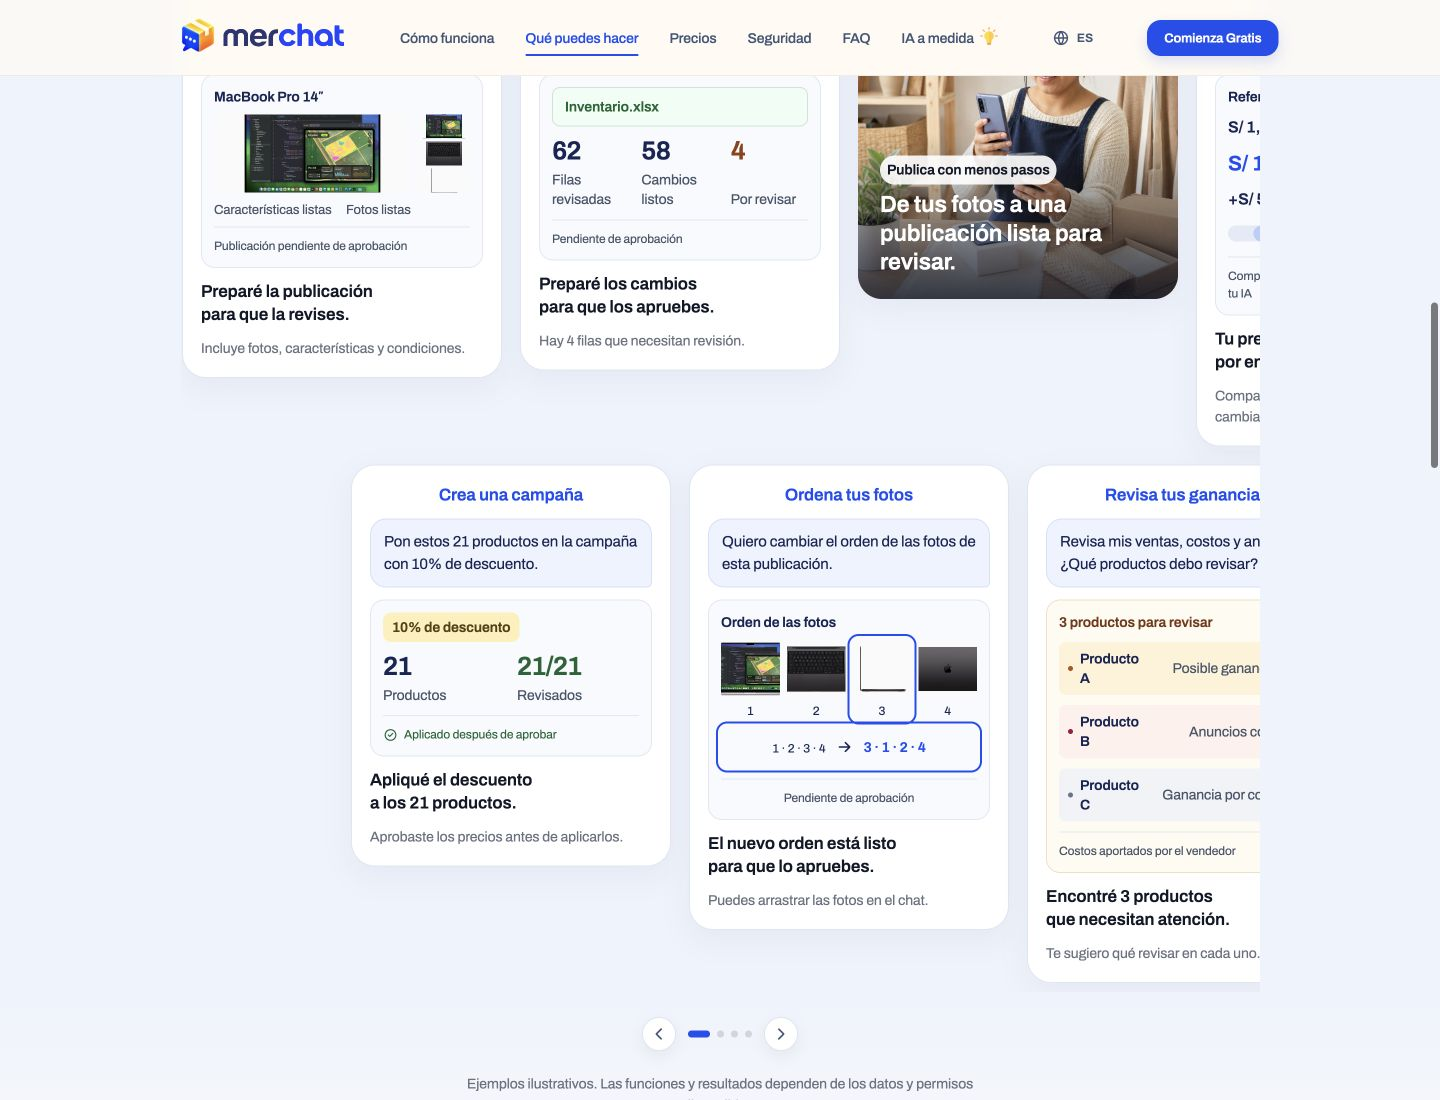
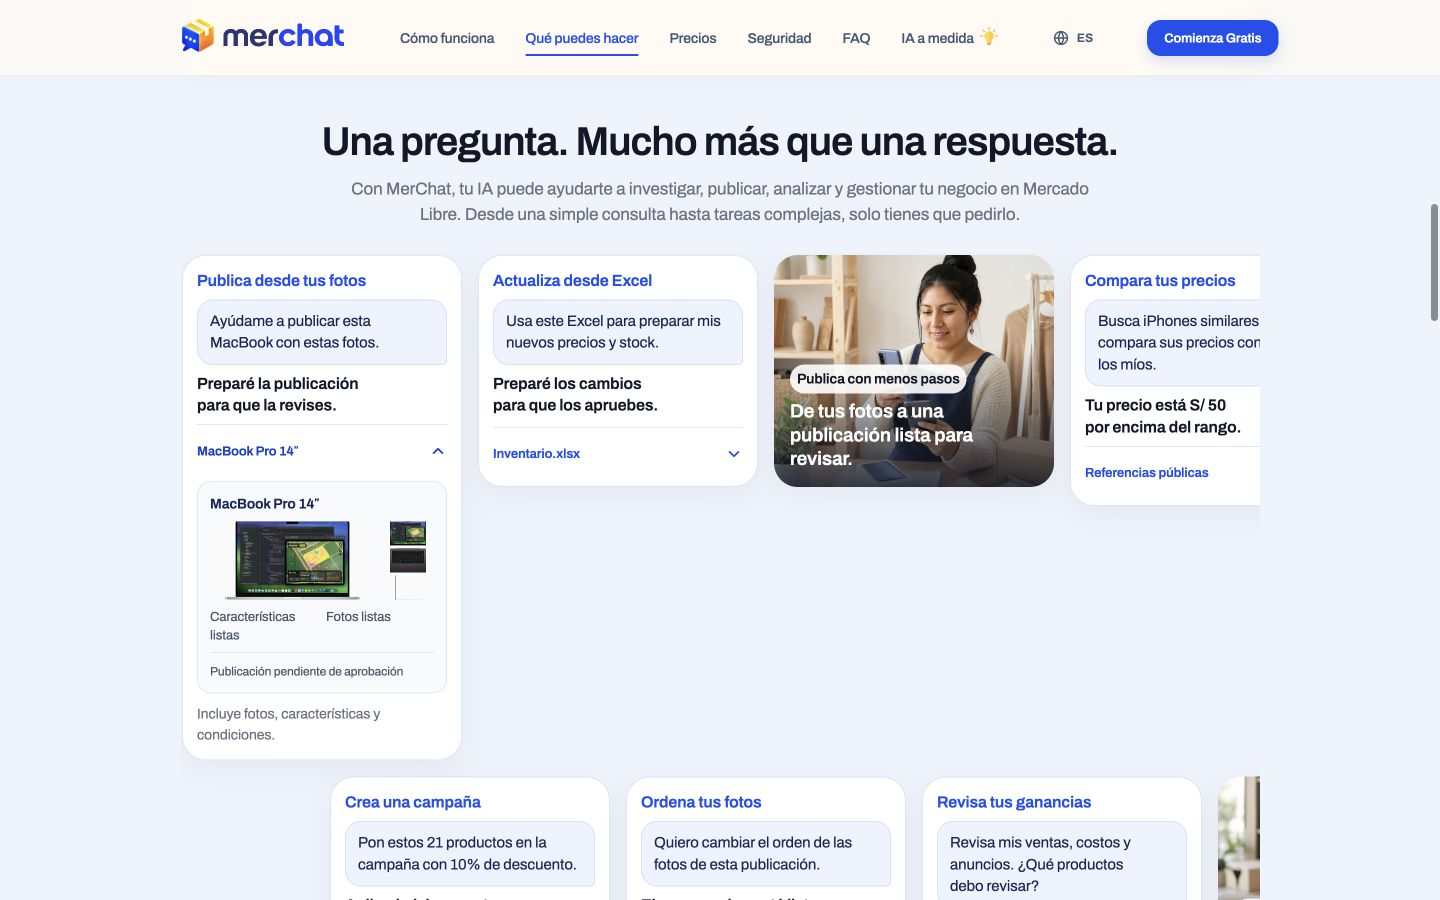
Compact carousel overview without changing copy

diff --git a/app/globals.css b/app/globals.css
@@ -2416,15 +2416,17 @@ body, main { background: var(--bg); }
 .features h3 { min-height: 2.6em; }
 
 /* Capability stories: the request leads, the preview makes the outcome concrete. */
-#resultados .section-title { max-width: 30ch; margin-bottom: 18px; }
-#resultados .showcase-intro { max-width: 64ch; margin: 0 auto 36px; text-align: center; font-size: 17px; line-height: 1.65; color: var(--muted); text-wrap: pretty; }
-#resultados .showcase-disclaimer { max-width: 72ch; margin: 22px auto 0; text-align: center; font-size: 14px; line-height: 1.55; color: var(--muted); }
-#resultados .carousel-set { grid-auto-columns: 320px; grid-template-rows: repeat(2, max-content); padding-right: 169px; }
-#resultados .carousel-set .example-card { width: 320px; min-height: 0; padding: 18px; gap: 12px; }
+main .functions-group section#resultados { padding-block: 24px 32px; scroll-margin-top: 80px; }
+#resultados .section-title { max-width: 38ch; margin-bottom: 12px; }
+#resultados .showcase-intro { max-width: 80ch; margin: 0 auto 24px; text-align: center; font-size: 17px; line-height: 1.5; color: var(--muted); text-wrap: pretty; }
+#resultados .showcase-disclaimer { max-width: 72ch; margin: 12px auto 0; text-align: center; font-size: 14px; line-height: 1.55; color: var(--muted); }
+#resultados .carousel-set { grid-auto-columns: 280px; grid-template-rows: repeat(2, max-content); gap: 16px; padding-right: 148px; }
+#resultados .carousel-set .example-card { width: 280px; min-height: 232px; padding: 14px; gap: 8px; }
+#resultados .carousel-set > .example-card:nth-child(even) { transform: translateX(148px); }
 #resultados .demo-card { align-self: start; }
-#resultados .demo-card > span { padding: 0; font-size: 17px; font-weight: 600; line-height: 1.35; }
-#resultados .example-bubble { padding: 11px 13px; font-size: 15px; line-height: 1.5; }
-#resultados .demo-card > strong { margin-top: 0; font-size: 17px; line-height: 1.35; }
+#resultados .demo-card > span { align-self: flex-start; padding: 0; font-size: 16px; font-weight: 600; line-height: 1.35; }
+#resultados .example-bubble { padding: 10px 12px; font-size: 15px; line-height: 1.45; }
+#resultados .demo-card > strong { margin-top: 0; font-size: 16px; line-height: 1.35; }
 #resultados .demo-card > small { font-size: 14px; line-height: 1.5; color: var(--muted); }
 #resultados .cap-preview { display: flex; flex-direction: column; gap: 10px; padding: 12px; border: 1px solid #E1E7F2; border-radius: 14px; background: #F8FAFE; font-size: 14px; line-height: 1.4; color: #172554; }
 #resultados .cap-label { font-size: 14px; font-weight: 600; }
@@ -2475,9 +2477,10 @@ body, main { background: var(--bg); }
 #resultados .example-photo .photo-overlay strong { font-size: 23px; line-height: 1.25; }
 #resultados .carousel-arrow:focus-visible, #resultados .dots button:focus-visible { outline: 3px solid var(--blue); outline-offset: 5px; }
 @media(max-width:640px) {
-  #resultados .carousel-set { grid-auto-columns: calc(88vw - 32px); padding-right: calc(44vw - 9px); grid-template-rows: repeat(2, max-content); }
-  #resultados .carousel-set .example-card { width: calc(88vw - 32px); padding: 16px; gap: 12px; }
-  #resultados .showcase-intro { font-size: 16px; margin-bottom: 28px; }
+  #resultados .carousel-set { grid-auto-columns: calc(88vw - 32px); padding-right: 0; grid-template-rows: max-content; gap: 12px; }
+  #resultados .carousel-set > .example-card:nth-child(even) { transform: none; }
+  #resultados .carousel-set .example-card { width: calc(88vw - 32px); padding: 14px; gap: 8px; }
+  #resultados .showcase-intro { font-size: 16px; margin-bottom: 20px; }
   #resultados .cap-preview { padding: 12px; font-size: 13px; }
   #resultados .cap-accounts .cap-item { padding: 7px; }
   #resultados .cap-accounts .cap-item b { font-size: 16px; }
@@ -2497,7 +2500,7 @@ body, main { background: var(--bg); }
 #resultados .cap-priorities .cap-item b { min-width: 22px; }
 
 /* Photos alternate rows at a steady cadence; each reads as a compact visual pause. */
-#resultados .carousel-set .example-photo { align-self: start; height: 360px; min-height: 0; }
+#resultados .carousel-set .example-photo { align-self: start; height: 232px; min-height: 0; padding: 0; }
 #resultados .cap-listing .cap-items { flex-direction: row; gap: 8px; flex-wrap: wrap; font-size: 13px; }
 #resultados .cap-listing .cap-item { flex: 1; }
 #resultados .cap-diagnosis { background: #FFFBF2; border-color: #ECE1C7; }
@@ -2509,7 +2512,7 @@ body, main { background: var(--bg); }
 #resultados .cap-diagnosis .cap-item-2 { background: #F1F3F7; }
 #resultados .cap-diagnosis .cap-item-2::before { background: #64748B; }
 @media(max-width:640px) {
-  #resultados .carousel-set .example-photo { height: 330px; }
+  #resultados .carousel-set .example-photo { height: 232px; }
 }
 
 #resultados .cap-price-range .cap-item { flex-direction: row; align-items: center; }
@@ -2519,3 +2522,16 @@ body, main { background: var(--bg); }
 #resultados .cap-diagnosis .cap-item { flex-direction: row; align-items: center; gap: 8px; }
 #resultados .cap-diagnosis .cap-item b { flex: 0 0 66px; }
 #resultados .cap-diagnosis .cap-item::before { top: 50%; transform: translateY(-50%); }
+
+/* Requests and answers form the overview; the complete example stays one click away. */
+#resultados .cap-detail { margin-top: auto; border-top: 1px solid #E1E7F2; }
+#resultados .cap-detail summary { display: flex; align-items: center; justify-content: space-between; gap: 8px; min-height: 44px; padding: 8px 0 0; list-style: none; cursor: pointer; color: var(--blue); font-size: 13px; font-weight: 600; line-height: 1.35; }
+#resultados .cap-detail summary::-webkit-details-marker { display: none; }
+#resultados .cap-detail summary svg { flex: 0 0 18px; width: 18px; height: 18px; fill: none; stroke: currentColor; stroke-width: 1.8; stroke-linecap: round; stroke-linejoin: round; }
+#resultados .cap-detail[open] summary svg { transform: rotate(180deg); }
+#resultados .cap-detail summary:hover { color: var(--brand-blue-hover); }
+#resultados .cap-detail summary:focus-visible { outline: 2px solid var(--blue); outline-offset: 3px; border-radius: 4px; }
+#resultados .cap-detail-body { display: grid; gap: 10px; padding-top: 12px; }
+#resultados .cap-detail-body > small { font-size: 14px; line-height: 1.5; color: var(--muted); }
+#resultados .example-photo .photo-overlay { padding: 16px; }
+#resultados .example-photo .photo-overlay strong { font-size: 19px; }

diff --git a/components/LandingPage.tsx b/components/LandingPage.tsx
@@ -144,15 +144,20 @@ function UseCaseResult({ card }: { card: UseCaseCard }) {
 function UseCaseDemoCard({ card }: { card: UseCaseCard }) {
   return <article className={`example-card demo-card result-${card.resultType}`} data-capability={card.id}>
     <span>{card.category}</span><div className="example-bubble">{card.prompt}</div>
-    <UseCaseResult card={card} /><strong>{card.resultTitle}</strong>
-    {card.resultDescription && <small>{card.resultDescription}</small>}
+    <strong>{card.resultTitle}</strong>
+    <details className="cap-detail" name="capability-preview">
+      <summary><span>{card.preview.label}</span><svg viewBox="0 0 20 20" aria-hidden="true"><path d="m5 7.5 5 5 5-5" /></svg></summary>
+      <div className="cap-detail-body"><UseCaseResult card={card} />
+        {card.resultDescription && <small>{card.resultDescription}</small>}
+      </div>
+    </details>
   </article>;
 }
 function PhotoDemoCard({ demo }: { demo: (typeof spanishLanding.photoExamples)[number] }) { return <article className="example-card example-photo"><img src={demo.image} alt={demo.alt} width={1122} height={1402} loading="lazy" decoding="async" /><div className="photo-overlay"><span>{demo.eyebrow}</span><strong>{demo.note}</strong></div></article>; }
 function ShowcaseCards({ content, duplicate = false }: { content: ReturnType<typeof getLanding>; duplicate?: boolean }) {
   // Lead with four workflows, then alternate photo breaks between the two rows.
   const photoAfterCase = [3, 5, 7, 9];
-  return <div className="carousel-set" aria-hidden={duplicate || undefined}>{content.useCases.flatMap((card, index) => {
+  return <div className="carousel-set" aria-hidden={duplicate || undefined} inert={duplicate || undefined}>{content.useCases.flatMap((card, index) => {
     const photoIndex = photoAfterCase.indexOf(index);
     return [<UseCaseDemoCard card={card} key={card.id} />, ...(photoIndex >= 0 ? [<PhotoDemoCard demo={content.photoExamples[photoIndex]} key={`photo-${photoIndex}`} />] : [])];
   })}</div>;
@@ -213,7 +218,7 @@ export default function LandingPage() {
     const interval = window.setInterval(() => {
       const time = Date.now();
       const carousel = showcaseRef.current;
-      if (carousel && (showcasePausedRef.current || !showcaseVisibleRef.current)) {
+      if (carousel && (showcasePausedRef.current || !showcaseVisibleRef.current || carousel.querySelector("details[open]"))) {
         showcaseAutoScrollRef.current = carousel.scrollLeft;
       } else if (carousel) {
         const loopWidth = getShowcaseLoopWidth(carousel);
@@ -269,6 +274,7 @@ export default function LandingPage() {
   };
   const startShowcaseDrag = (event: React.PointerEvent<HTMLDivElement>) => {
     if (event.pointerType !== "mouse" || event.button !== 0) return;
+    if ((event.target as Element).closest("summary")) return;
     const carousel = event.currentTarget;
     showcasePausedRef.current = true;
     showcaseDragRef.current = { active: true, pointerId: event.pointerId, startX: event.clientX, startScroll: carousel.scrollLeft };

diff --git a/docs/carousel-review/README.md b/docs/carousel-review/README.md
@@ -1,42 +1,37 @@
 # Capability carousel review
 
-Scope: `#resultados`. The carousel now contains 12 deterministic conversational workflow examples and four existing lifestyle photographs. All four locales replace the complete datasets in the same stable ID order. The first four workflows occupy the first two staggered columns.
+The `#resultados` carousel shows 12 conversational workflows and four existing lifestyle photographs. Spanish, English, Brazilian Portuguese and Simplified Chinese retain complete datasets with matching stable IDs. The first four workflows lead the sequence.
 
-`UseCaseDemoCard`, `UseCaseResult`, `PhotoDemoCard` and `ShowcaseCards` remain the rendering structure. Small shared `PreviewItems` and `ProductPhotos` primitives provide distinct previews without a visualization library. No seller APIs or runtime dependencies were added. New local product thumbnails are documented in `public/images/products/SOURCES.md`.
+## Final presentation
 
-Carousel changes keep dragging, swiping, arrows, four dots and reduced motion. Loop width now measures the distance between duplicated sets, including their gap. Autoplay pauses outside the viewport and during hover, keyboard focus and touch/drag; resume timers respect active interactions. The duplicate set remains `aria-hidden` and contains no interactive controls.
+Desktop keeps two staggered rows with 280px-wide overview cards, typically 232–251px tall in Spanish. Requests and answers remain fully visible. Each native disclosure uses the existing preview label and opens the complete preview and supporting description. One example can be open at a time. Autoplay pauses while an example is open, as well as during hover, focus, dragging, touch and offscreen states. Duplicate loop content is hidden from assistive technology and inert.
 
-## Final visual refinements
+Mobile uses one horizontal row, with no staggered translation. The original copy in all four locales is unchanged by this layout refinement. The four lifestyle photographs remain in the loop at positions 5, 8, 11 and 14, now 232px tall. Product previews, figures, approval states, cost assumptions and estimates remain available in the expanded examples.
 
-Cards use content-driven heights, tighter preview spacing and outcomes directly beneath their previews. The four lifestyle photos occupy positions 5, 8, 11 and 14, alternating between rows and aligning to each row start. Photos remain shorter visual pauses. Diagnosis previews distinguish the three conditions; the advertising bar reflects the supplied ACOS value rather than arbitrary decorative columns. Final responsive checks passed at all five widths and all four locales at 360px.
-
-The 12 workflow requests and answers now use everyday, conversational wording. Answers state the concrete result; preview labels avoid jargon where possible and explain ACOS as ad spend divided by sales. Photo captions follow the same plain language. All four translations are updated. Copy outside the carousel is unchanged. Mobile checks at 360px found no overflow in any locale; the latest screenshots show the revised copy.
+`UseCaseDemoCard`, `UseCaseResult`, `PhotoDemoCard` and `ShowcaseCards` remain the shared rendering structure. No runtime dependency, seller API or backend was added. Local product imagery sources are documented in `public/images/products/SOURCES.md`.
 
 ## Validation
 
-- `npm run typecheck`: passed.
-- `npm run lint`: zero errors; existing `BrandLogo.tsx` image warning.
-- `npm run build`: passed.
-- `npm test`: 6 passed, 2 failed. Both failures are reproduced against baseline commit `610e0f4`: old tests expect the logo image directly in `LandingPage.tsx` rather than `BrandLogo`, and expect the old icon path rather than `merchat-chat-icon.png`. Neither production branding nor unrelated tests were changed in this PR.
-- `node --test tests/carousel-content.test.mjs tests/localization.test.mjs`: all 5 passed. Checks cover stable IDs, exact dataset sizes, distinct previews/photos, approval gates, illustrative research, cost inputs, inventory uncertainty and separate seller accounts.
-- `git diff --check`: passed.
-- Spanish rendered at 1440, 1024, 768, 390 and 360px; no card clipping or page overflow. A narrow priority-preview overflow found at 360px was corrected.
-- All four locale routes checked at 360px after the correction: 12 aligned capability IDs each, zero clipped cards and zero overflowing previews.
-- Mouse drag verified in the integrated browser; arrows and dots move to the corresponding quarters and return to the first page. Focus keeps autoplay paused.
-- Chrome 390px mobile emulation: horizontal touch moved the carousel from 0 to 287px; vertical touch changed page scroll while preserving the carousel position. No warning/error logs were observed.
-- Chrome reduced-motion emulation: preference was true and carousel position remained unchanged during subsequent interactions. Normal autoplay resumed after clearing the preference. A final-quarter position of 2071.5px wrapped past a 2762px loop seam and was subsequently observed at 605px.
-- Native accessibility snapshot announces the 16 unique cards, not the duplicate set. Decorative previews are non-interactive; meaningful main product and lifestyle images retain alt text.
-- Browser emulation settings were restored after testing. Touch checks use browser emulation, not physical-device testing.
+- Production build and TypeScript checks passed.
+- ESLint: no errors; existing `BrandLogo.tsx` image warning.
+- Carousel/content and localization tests: all 5 passed. `git diff --check` passed.
+- Five widths checked: 1440, 1024, 768, 390 and 360px. No page or card overflow. Desktop has two rows; mobile has one.
+- At 1440 × 900, both rows, heading, controls and illustrative-results note fit in the overview screenshot. At 390 × 844, the heading, overview card, controls and note fit together.
+- All four locales checked at 360px. Expanded listing, diagnosis, price comparison, advertising and account previews had no overflow. Only one disclosure remained open.
+- Click expands a preview; Enter collapses it. Expanded content includes the original preview and supporting description. Clone disclosures are inert.
+- Next arrow moved to quarter two; first dot returned to the start. Dragging moved the carousel 165px. Temporary viewport overrides were restored.
+- Earlier interaction verification also covered horizontal and vertical touch, reduced motion and loop wrapping with browser emulation; physical-device testing was not performed.
+- Full test suite previously recorded 6 passes and 2 existing failures, both reproduced on baseline `610e0f4`: old assertions expect an inline logo instead of `BrandLogo` and the former icon path. Unrelated branding/tests remain unchanged.
 
-## Regression scope
+## Scope
 
-Compared with the saved styling baseline, all message content outside `useCases`, `photoExamples`, `showcaseTitle`, `showcaseIntro` and `showcaseDisclaimer` is unchanged. New CSS is scoped to `#resultados`. Hero/animation, navigation, feature overview, onboarding, pricing/fonts, trust, FAQ, footer, trial/WhatsApp links, routing, metadata and integrations are unchanged.
+Layout refinements affect only the shared carousel component and `#resultados` styles. No message file changed in the compact-layout commit. The broader PR contains the approved carousel datasets and copy work. Hero, navigation, other sections, pricing and its fonts, routing, metadata and integrations retain the saved styling baseline.
 
 ## Screenshots
 
 - [Before desktop](before-desktop.png)
 - [Before mobile](before-mobile.png)
-- [After desktop](after-desktop.png)
-- [After desktop outcomes](after-desktop-results.png)
-- [After mobile](after-mobile.png)
-- [After mobile outcomes](after-mobile-results.png)
+- [Compact desktop overview](after-desktop.png)
+- [Expanded desktop example](after-desktop-results.png)
+- [Single-row mobile overview](after-mobile.png)
+- [Expanded mobile example](after-mobile-results.png)
